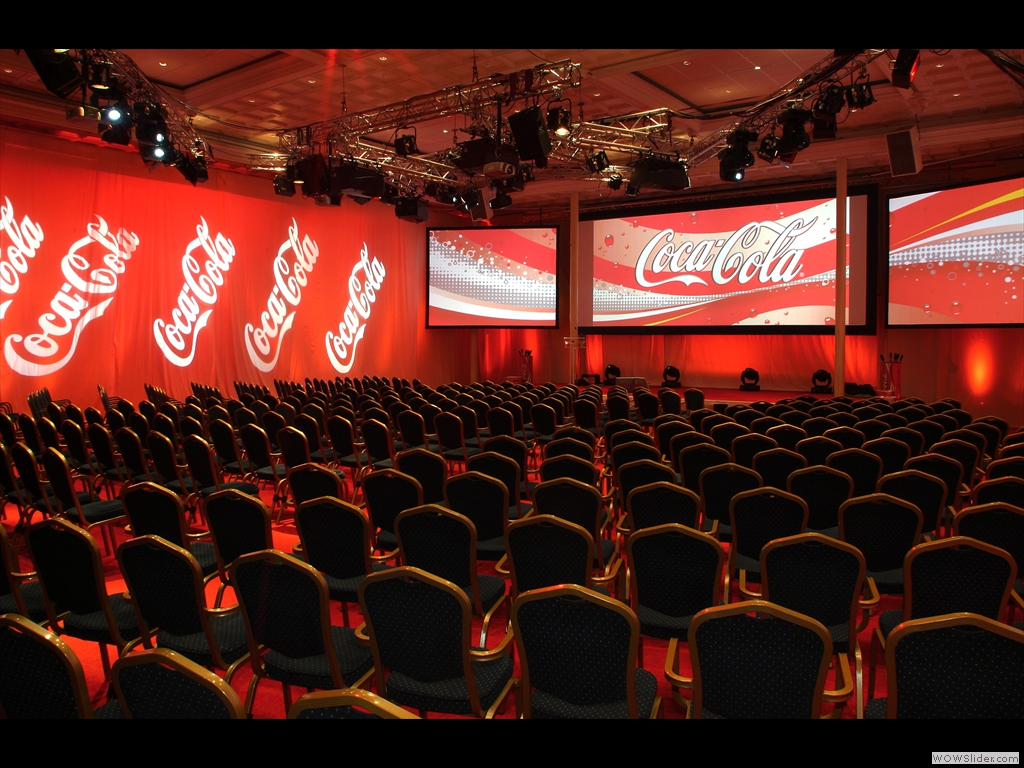
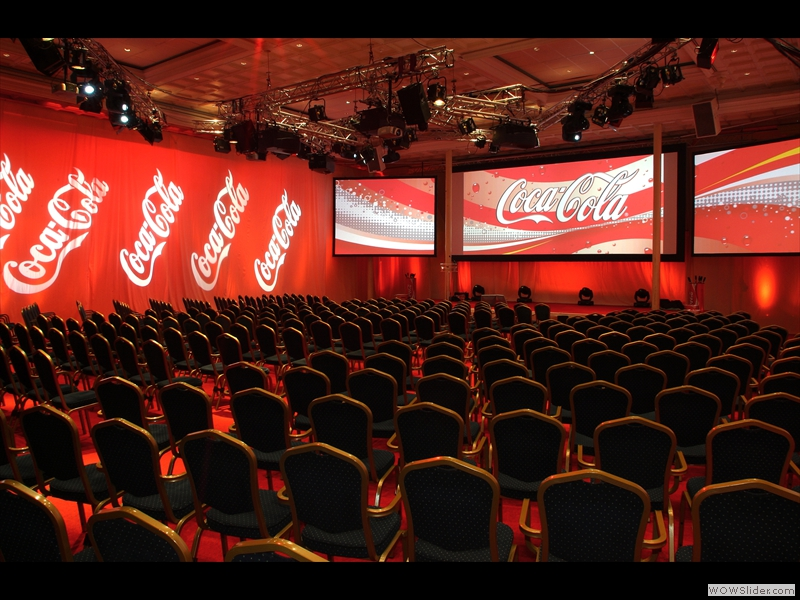
Gallerie fix

diff --git a/gallerys/branding/engine1/script.js b/gallerys/branding/engine1/script.js
@@ -18,4 +18,4 @@ function ws_basic_linear(c,a,b){var d=jQuery;var e=d("<div></div>").css({positio
 // Obfuscated by Javascript Obfuscator
 // http://javascript-source.com
 //***********************************************
-jQuery("#wowslider-container1").wowSlider({effect:"basic_linear",prev:"",next:"",duration:20*100,delay:20*100,width:1024,height:768,autoPlay:false,playPause:false,stopOnHover:false,loop:false,bullets:1,caption:false,captionEffect:"slide",controls:true,onBeforeStep:0,images:0});
+jQuery("#wowslider-container1").wowSlider({effect:"basic_linear",prev:"",next:"",duration:20*100,delay:5*100,width:800,height:600,autoPlay:false,playPause:false,stopOnHover:false,loop:false,bullets:1,caption:false,captionEffect:"slide",controls:true,onBeforeStep:0,images:0});

diff --git a/gallerys/branding/iframe_test.html b/gallerys/branding/iframe_test.html
@@ -1,3 +1,3 @@
 <!-- Start WOWSlider.com -->
-<iframe src="test.html" style="width:1024px;height:768px;max-width:100%;overflow:hidden;border:none;padding:0;margin:0 auto;display:block;" marginheight="0" marginwidth="0"></iframe>
+<iframe src="test.html" style="width:800px;height:600px;max-width:100%;overflow:hidden;border:none;padding:0;margin:0 auto;display:block;" marginheight="0" marginwidth="0"></iframe>
 <!-- End WOWSlider.com -->

diff --git a/gallerys/branding/engine1/style.css b/gallerys/branding/engine1/style.css
@@ -6,13 +6,13 @@
 #wowslider-container1 { 
 	zoom: 1; 
 	position: relative; 
-	max-width:1024px;
+	max-width:800px;
 	margin:0px auto 0px;
 	z-index:90;
 	border:none;
 	text-align:left; /* reset align=center */
 }
-* html #wowslider-container1{ width:1024px }
+* html #wowslider-container1{ width:800px }
 #wowslider-container1 .ws_images ul{
 	position:relative;
 	width: 10000%; 
